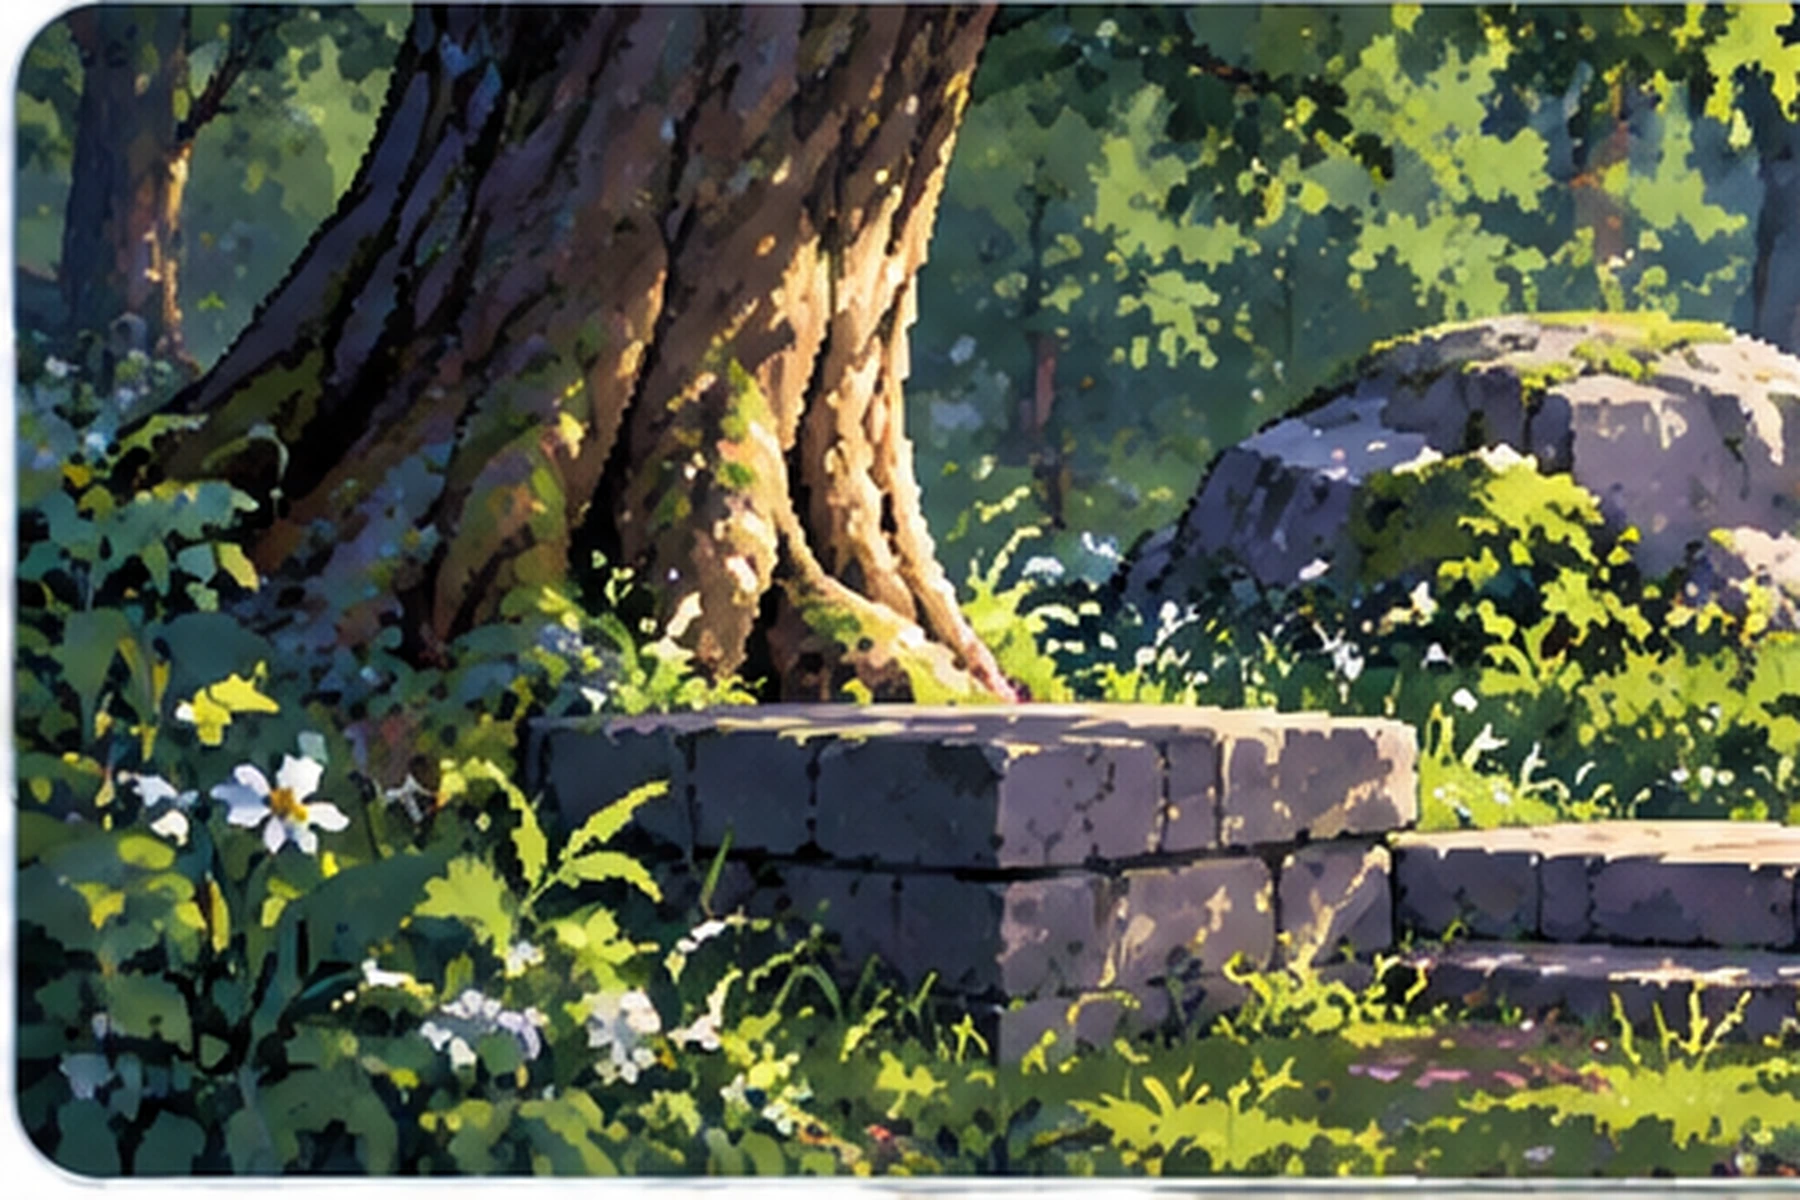
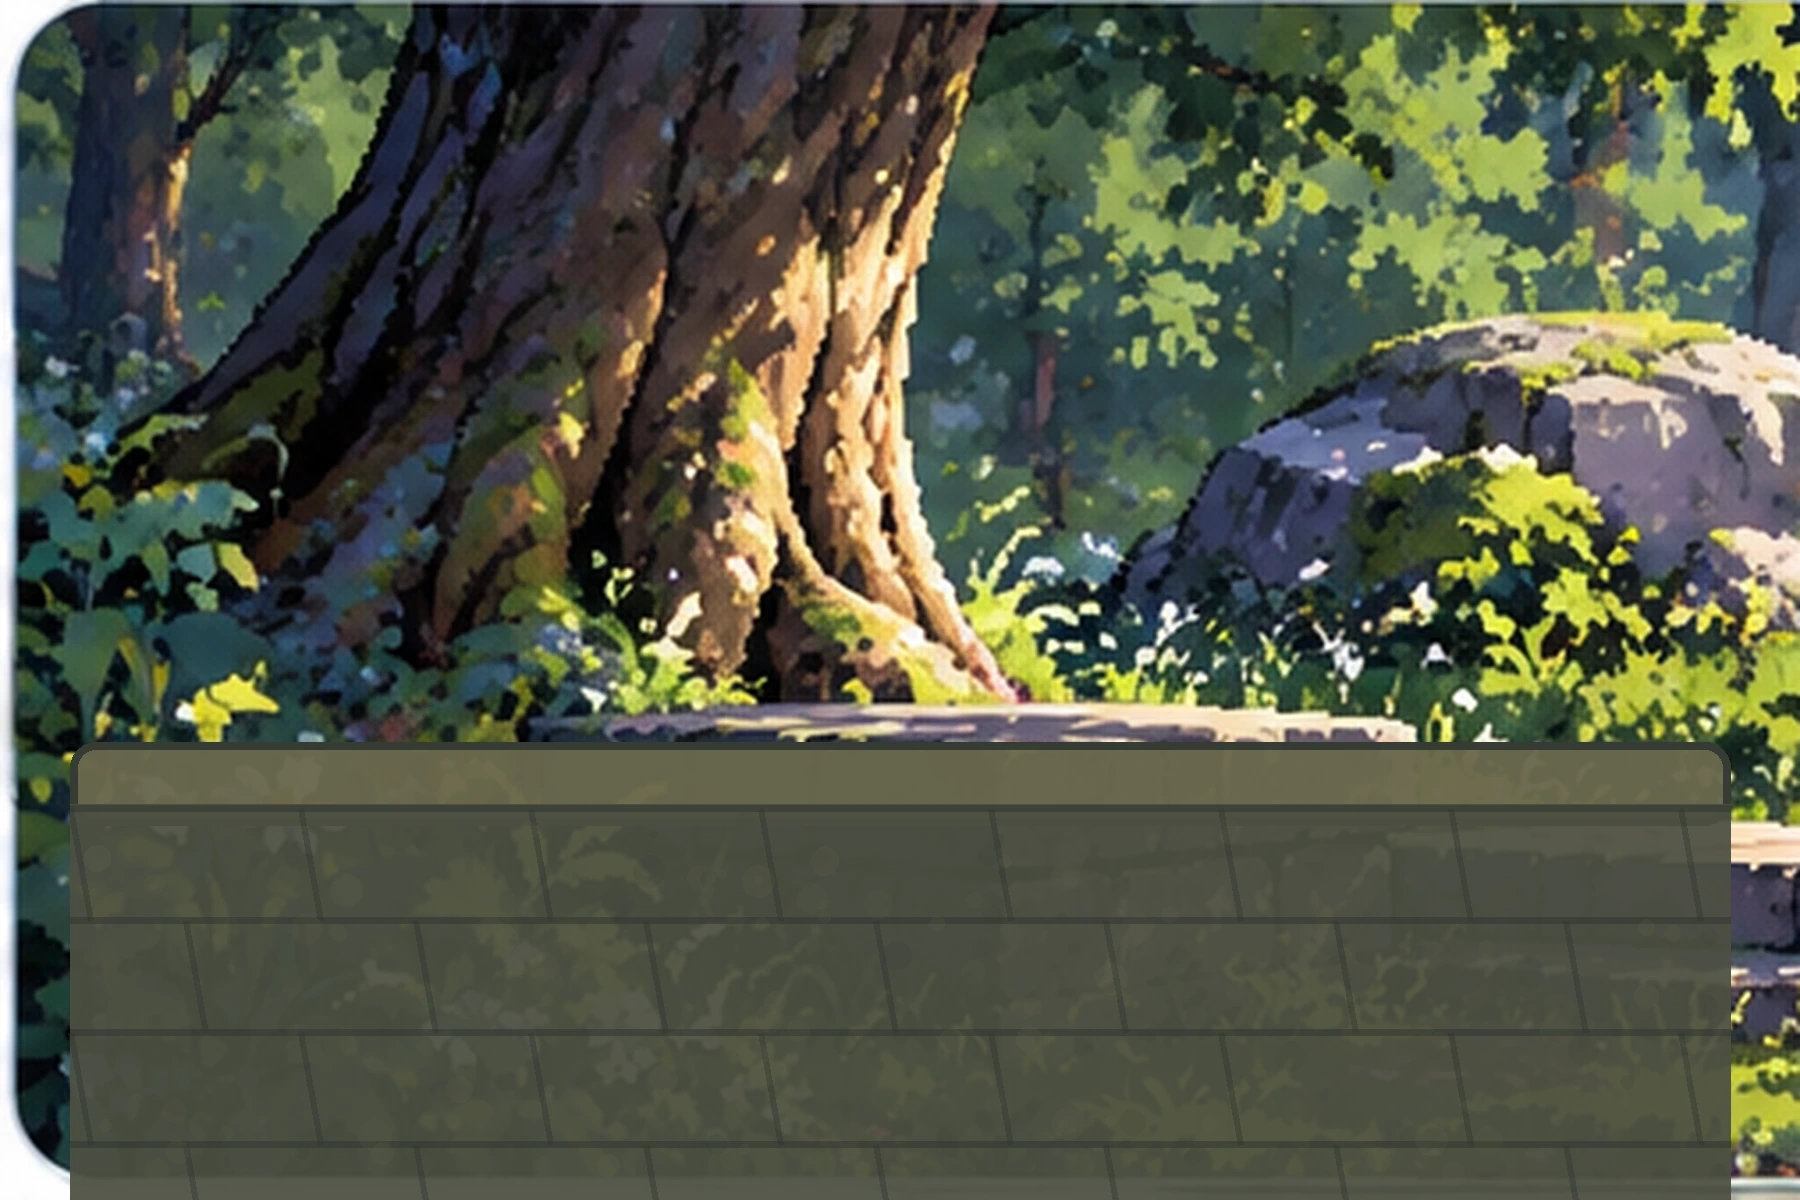
Add files via upload

Changed region(s): [[0.0311, 0.6167, 0.9644, 1.0]]

diff --git a/index.html b/index.html
@@ -3936,6 +3936,13 @@ body[data-theme="umbreon"] .trainerStyleRow .stylePill.active{background:#342e58
 .trainerPerchFront{display:none!important}
 </style>
 
+<style id="v0182f-authored-scenes">
+.trainerArt{--db-seat-y:64.2%;--db-partner-x:69%;--db-partner-y:61%;background-position:center!important}
+.trainerRigSvg{width:47%;height:96%;left:13%;bottom:-9%;transform:none;z-index:2}
+.trainerSceneForeground{position:absolute;inset:0;width:100%;height:100%;object-fit:cover;z-index:3;pointer-events:none}
+.trainerPartnerSlot{position:absolute;z-index:2;left:62%;top:38%;width:30%;height:48%;pointer-events:none}
+.trainerArt:after{z-index:5}
+</style>
 </head>
 <body>
 <div class="themeAtmosphere" aria-hidden="true">
@@ -4012,7 +4019,7 @@ body[data-theme="umbreon"] .trainerScenePicker{background:rgba(29,35,49,.76);bor
 body[data-theme="umbreon"] .trainerScenePickerHead b,body[data-theme="umbreon"] .trainerSceneChoice{color:#f5f6fb}
 @media(max-width:430px){.trainerScene{grid-template-columns:minmax(0,1.38fr) minmax(105px,.72fr)}.trainerArt{min-height:178px}.trainerCardName{font-size:1.08rem}.trainerStatBox{padding:8px}.trainerStatBox b{font-size:.82rem}}
 </style>
-<button class="profileHeaderBtn" id="profileHeaderBtn" type="button" onclick="openProfiles()">👤 My Profile</button><div class="version" id="buildVersion">v0.18.2e</div>
+<button class="profileHeaderBtn" id="profileHeaderBtn" type="button" onclick="openProfiles()">👤 My Profile</button><div class="version" id="buildVersion">v0.18.2f</div>
 </div>
 
   <section id="homeScreen">
@@ -5190,8 +5197,8 @@ body[data-theme="umbreon"] .trainerScenePickerHead b,body[data-theme="umbreon"] 
     <circle cx="300" cy="232" r="20" fill="#fff7fd"/><path d="M291 232h18M300 223v18" stroke="#806be6" stroke-width="6"/>
   </g>
 </svg>
-<!-- foreground occlusion: the scene's shared perch edge -->
-
+<div class="trainerPartnerSlot" aria-hidden="true"></div>
+<img class="trainerSceneForeground" alt="" aria-hidden="true">
 </div></div><div class="trainerStats"><div class="trainerStatBox"><small>MASTER COLLECTION</small><b id="trainerMasterPct">0%</b><div class="trainerProgress"><i id="trainerMasterBar" style="width:0%"></i></div></div><div class="trainerStatBox"><small>CARDS OWNED</small><b id="trainerPhysicalCards">0</b></div><div class="trainerStatBox"><small>MASTERED SETS</small><b id="trainerMasteredSets">0</b></div></div></div><div class="trainerScenePicker"><div class="trainerScenePickerHead"><b>SCENE</b><span>Saved to this profile</span></div><div class="trainerSceneChoices"><button class="trainerSceneChoice" type="button" data-trainer-scene="sunset-lake"><img src="./trainer-bg-sunset-lake.webp" alt="">Sunset Lake</button><button class="trainerSceneChoice" type="button" data-trainer-scene="cozy-town"><img src="./trainer-bg-cozy-town.webp" alt="">Cozy Town</button><button class="trainerSceneChoice" type="button" data-trainer-scene="forest-trail"><img src="./trainer-bg-forest-trail.webp" alt="">Forest Trail</button></div></div>
     <div class="trainerQuickBuilder">
  <div class="trainerScenePickerHead"><b>TRAINER</b><span>Seated rig · saved to this profile</span></div>
@@ -11361,6 +11368,7 @@ function renderTrainerScenePrefs(){
  const pref=trainerPrefsForCurrent(),scene=TRAINER_SCENES[pref.scene]?pref.scene:'sunset-lake';
  art.style.setProperty('--trainer-bg',`url("${TRAINER_SCENES[scene]}")`);
  art.setAttribute('aria-label',`${scene.replaceAll('-',' ')} trainer background preview`);
+ const fg=$('.trainerSceneForeground');if(fg)fg.src=`./trainer-fg-${scene}.webp`;art.dataset.scene=scene;
  $$('[data-trainer-scene]').forEach(b=>b.classList.toggle('active',b.dataset.trainerScene===scene));
 }
 function applyTrainerAppearance(){

diff --git a/sw.js b/sw.js
@@ -1,4 +1,4 @@
-const CACHE='dexbinder-shell-v0182e';
+const CACHE='dexbinder-shell-v0182f';
 const APP_SHELL=[
   './',
   './index.html',
@@ -13,6 +13,9 @@ const APP_SHELL=[
   './trainer-bg-sunset-lake.webp',
   './trainer-bg-cozy-town.webp',
   './trainer-bg-forest-trail.webp',
+  './trainer-fg-sunset-lake.webp',
+  './trainer-fg-cozy-town.webp',
+  './trainer-fg-forest-trail.webp',
 ];
 
 self.addEventListener('install',event=>{
